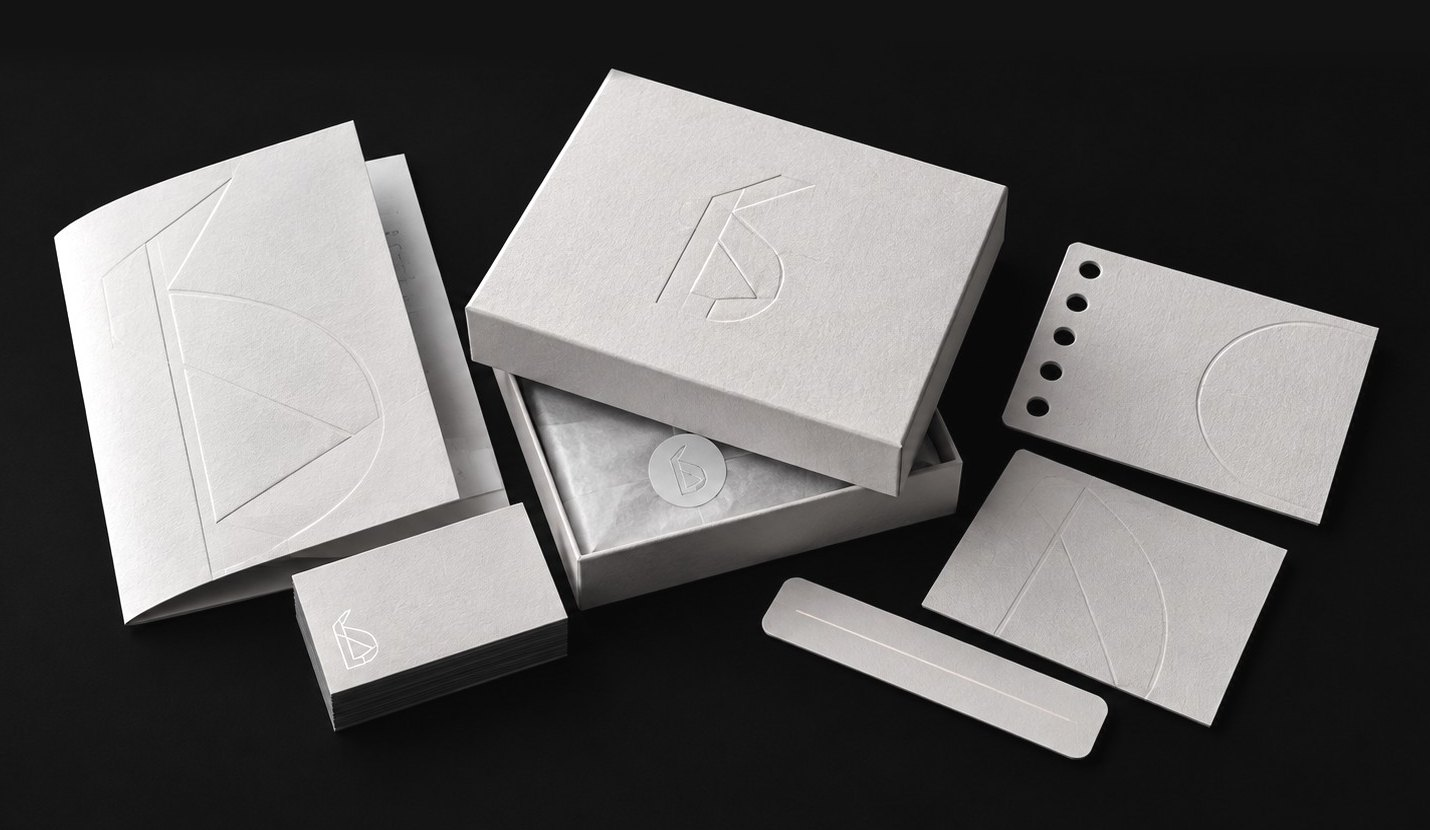
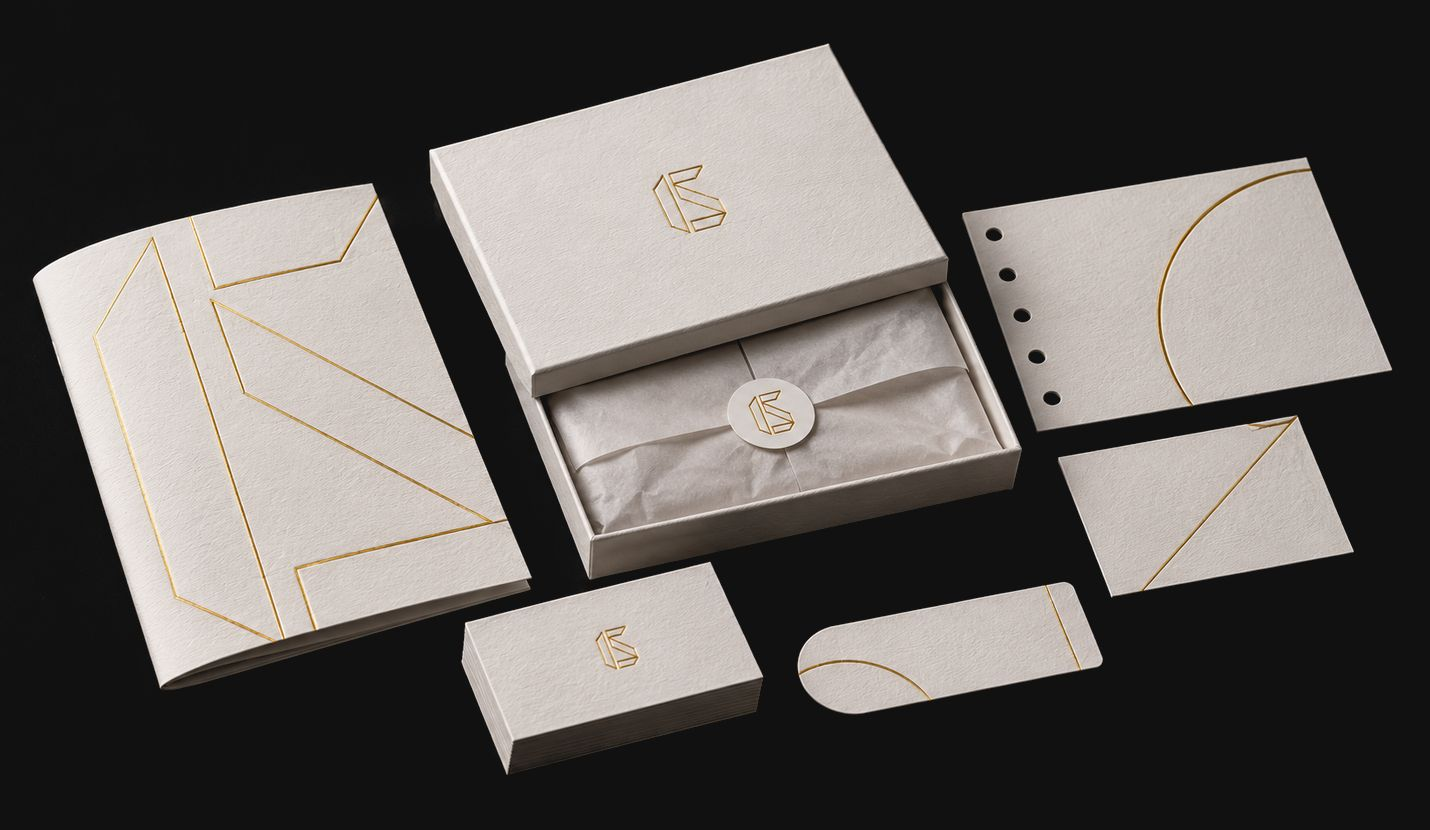
Главная: золотое тиснение на первом экране; блок малых тиражей понятнее
- Новый снимок первого экрана: знак золотой фольгой, фон выровнен в цвет страницы
- Блок «½» → «30»: «Берёмся за тиражи от тридцати штук», тиражи в заявках выделены

diff --git a/src/app/page.tsx b/src/app/page.tsx
@@ -31,16 +31,19 @@ export const metadata: Metadata = {
 const smallRuns = [
   {
     quote:
-      'Сможете ли вы изготовить коробки малым тиражом? Коробка желательно с окном, размер 30×30×15\u00a0см, тираж 35\u00a0шт.',
+      'Сможете ли вы изготовить коробки малым тиражом? Коробка желательно с окном, размер 30×30×15\u00a0см, ',
+    run: 'тираж 35\u00a0шт.',
     when: 'Заявка с сайта, сентябрь 2025',
   },
   {
     quote:
-      'Хотели бы под корпоративный стиль в новогоднем дизайне разработать настольную игру для партнёров в качестве подарка. Тираж\u00a0— 50\u00a0шт.',
+      'Хотели бы под корпоративный стиль в новогоднем дизайне разработать настольную игру для партнёров в качестве подарка. ',
+    run: 'Тираж\u00a0— 50\u00a0шт.',
     when: 'Заявка с сайта, август 2024',
   },
   {
-    quote: 'Сориентируйте, пожалуйста, сможете ли вы сделать суперобложку для книг? Тираж: 50\u00a0шт.',
+    quote: 'Сориентируйте, пожалуйста, сможете ли вы сделать суперобложку для книг? ',
+    run: 'Тираж: 50\u00a0шт.',
     when: 'Заявка с сайта, ноябрь 2025',
   },
 ];
@@ -76,7 +79,7 @@ export default function HomePage() {
               height={830}
               priority
               sizes="100vw"
-              alt="Белая полиграфия и упаковка на чёрном: тиснение знака, перфорация, крашеный обрез, коробка с лентой"
+              alt="Белая полиграфия и упаковка на чёрном: знак студии золотым тиснением на коробке, визитках и наклейке, буклет и открытки с золотыми линиями"
             />
           </figure>
           <section className="ls-home-head">
@@ -107,12 +110,12 @@ export default function HomePage() {
 
           <section className="ls-small">
             <span className="ls-small-num" aria-hidden="true">
-              ½
+              30
             </span>
-            <h2>Половина заказов у нас&nbsp;— до ста штук</h2>
+            <h2>Берёмся за тиражи от&nbsp;тридцати штук</h2>
             <p>
-              Возьмёмся и за тридцать. Дизайн на таком тираже стоит дороже печати, поэтому считаем прежде
-              всего работу студии, а бумагу и станки подбираем под неё.
+              Половина наших заказов&nbsp;— до ста экземпляров. Дизайн на таком тираже стоит дороже печати,
+              поэтому считаем прежде всего работу студии, а бумагу и станки подбираем под неё.
             </p>
             <ul className="ls-small-ex">
               {smallRuns.map((r) => (
@@ -132,7 +135,10 @@ export default function HomePage() {
                     <path d="M2 5l8 6 8-6" />
                   </svg>
                   <div>
-                    <q>{r.quote}</q>
+                    <q>
+                      {r.quote}
+                      <b>{r.run}</b>
+                    </q>
                     <span>{r.when}</span>
                   </div>
                 </li>

diff --git a/src/app/small-runs.css b/src/app/small-runs.css
@@ -2,8 +2,9 @@
    «а за мои тридцать штук вообще возьмутся» — в заявках с сайта это
    спрашивают прямо, и тиражи там чаще всего до сотни штук.
 
-   Крупная «½» слева — сама цифра и есть довод, заголовок её договаривает.
-   Дробь скрыта от скринридера: заголовок читается и без неё. */
+   Крупное «30» слева — нижняя граница тиража, заголовок её договаривает.
+   «½» здесь не читалась: маркетолог (09.11) назвал блок непонятным.
+   Цифра скрыта от скринридера: заголовок читается и без неё. */
 .ls-small {
   margin-top: var(--gap-block);
   padding: 0 var(--side);
@@ -61,6 +62,12 @@
   font-size: var(--t-base);
   line-height: 1.45;
   color: var(--ink-2);
+}
+/* Тираж в заявке — то, ради чего она здесь: выделен, чтобы связать цитату
+   с заголовком. */
+.ls-small-ex q b {
+  font-weight: 600;
+  color: var(--ink);
 }
 .ls-small-ex span {
   display: block;
